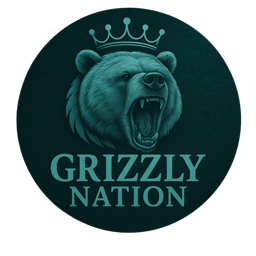
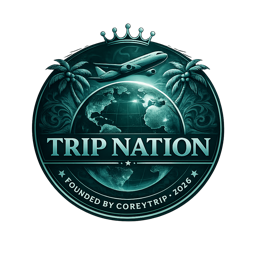
first commit

diff --git a/index.html b/index.html
@@ -3,7 +3,7 @@
 <head>
   <meta charset="UTF-8">
   <meta name="viewport" content="width=device-width, initial-scale=1">
-  <title>Grizzley Nation</title>
+  <title>Trip Nation</title>
   <link rel="stylesheet" href="css/style.css">
   <link href="https://fonts.googleapis.com/css2?family=Roboto:wght@400;700&display=swap" rel="stylesheet">
 </head>
@@ -17,7 +17,7 @@
 <!-- Header -->
 <header>
   <div class="header-container">
-    <img src="images/gns.png" alt="Grizzley Nation Logo" class="logo">
+    <img src="images/gns.png" alt="Trip Nation Logo" class="logo">
     <nav>
       <a href="index.html">Home</a>
       <a href="store.html">Store</a>
@@ -29,9 +29,9 @@
 
 <!-- Hero Section -->
 <section class="hero">
-  <img src="images/banner.png" alt="Grizzley Banner" class="hero-image">
+  <img src="images/banner.png" alt="Trip Banner" class="hero-image">
   <div class="hero-overlay">
-    <h1>Grizzley Nation</h1>
+    <h1>Trip Nation</h1>
     <p>Welcome to our official community. Join, explore, and be part of the experience!</p>
     <a href="support.html" class="btn">Join Discord</a>
   </div>
@@ -40,8 +40,8 @@
 <!-- Welcome Section -->
 <section class="welcome-section">
   <div class="container">
-    <h2>Welcome to Grizzley Nation</h2>
-    <p>Grizzley Nation is a community built on collaboration, fun, and growth. Explore our server, check out our events, and meet our amazing team!</p>
+    <h2>Welcome to Trip Nation</h2>
+    <p>Trip Nation is a community built on collaboration, fun, and growth. Explore our server, check out our events, and meet our amazing team!</p>
   </div>
 </section>
 
@@ -51,8 +51,8 @@
     <h2>🎉 Welcome Our New Server!</h2>
     <h3>Miami City Roleplay – VC Only</h3>
     <p>
-      Grizzley Nation is proud to officially welcome <strong>Miami City Roleplay (VC Only)</strong> 
-      into the Grizzley Nation family! Join an immersive voice-only roleplay experience 
+      Trip Nation is proud to officially welcome <strong>Miami City Roleplay (VC Only)</strong> 
+      into the Trip Nation family! Join an immersive voice-only roleplay experience 
       built for serious RP, fun scenarios, and a strong community.
     </p>
 
@@ -88,18 +88,18 @@
   <div class="team-middle three-members">
     <div class="member">
       <img src="images/gns.png" alt="Founder">
-      <h3>CoreyGrizzley</h3>
-      <p>Founder of Grizzley Nation</p>
+      <h3>CoreyTrip</h3>
+      <p>Founder of Trip Nation</p>
     </div>
     <div class="member">
       <img src="images/gns.png" alt="Co Founder">
-      <h3>KjGrizzley</h3>
-      <p>Co-Founder of Grizzley Nation</p>
+      <h3>KjTrip</h3>
+      <p>Co-Founder of Trip Nation</p>
     </div>
     <div class="member">
       <img src="images/gns.png" alt="Assistant Co Founder">
-      <h3>AnthonyGrizzley</h3>
-      <p>Assistant Co-Founder of Grizzley Nation</p>
+      <h3>AnthonyTrip</h3>
+      <p>Assistant Co-Founder of Trip Nation</p>
     </div>
   </div>
 </section>
@@ -110,45 +110,35 @@
   <div class="team-middle">
     <div class="member">
       <img src="images/gns.png" alt="Founder of MCRP">
-      <h3>KjGrizzley</h3>
-      <p>Co-Founder & Overseer</p>
+      <h3>KjTrip</h3>
+      <p>Overseer & Founder of MCRP</p>
     </div>
   </div>
 </section>
 
 <!-- Official Members -->
 <section class="team-section vertical-center">
-  <h2>Official Grizzley Members</h2>
+  <h2>Official Trip Members</h2>
   <div class="team-grid">
     <div class="member">
       <img src="images/gns.png" alt="Member 1">
-      <h3>AndrewGrizzley</h3>
-      <p>Junior Grizzley</p>
+      <h3>AndrewTrip</h3>
+      <p>Trial Senior Trip</p>
     </div>
     <div class="member">
       <img src="images/gns.png" alt="Member 2">
-      <h3>ZayGrizzley</h3>
-      <p>Junior Grizzley</p>
-    </div>
-    <div class="member">
-      <img src="images/gns.png" alt="Member 3">
-      <h3>CozyGrizzley</h3>
-      <p>Trial Grizzley</p>
+      <h3>ZayTrip</h3>
+      <p>Trial Senior Trip</p>
     </div>
     <div class="member">
       <img src="images/gns.png" alt="Member 4">
-      <h3>RageGrizzley</h3>
-      <p>Trial Grizzley</p>
-    </div>
-    <div class="member">
-      <img src="images/gns.png" alt="Member 5">
-      <h3>JamesGrizzley</h3>
-      <p>Trial Grizzley</p>
+      <h3>RageTrip</h3>
+      <p>Junior Trip</p>
     </div>
     <div class="member">
       <img src="images/gns.png" alt="Member 6">
-      <h3>JoeyGrizzley</h3>
-      <p>Trial Grizzley</p>
+      <h3>VivianTrip</h3>
+      <p>Trial Trip</p>
     </div>
   </div>
 </section>
@@ -156,7 +146,7 @@
 <!-- Footer -->
 <footer>
   <div class="container footer-grid">
-    <p>&copy; 2026 Grizzley Nation. All rights reserved.</p>
+    <p>&copy; 2026 Trip Nation. All rights reserved.</p>
     <div class="social-links">
       <a href="https://discord.gg/uvwZyjweBS">Discord</a>
     </div>

diff --git a/gnrules.html b/gnrules.html
@@ -3,19 +3,19 @@
 <head>
   <meta charset="UTF-8">
   <meta name="viewport" content="width=device-width, initial-scale=1">
-  <title>Grizzley Nation Rules</title>
+  <title>Trip Nation Rules</title>
   <link rel="stylesheet" href="css/style.css">
   <link href="https://fonts.googleapis.com/css2?family=Roboto:wght@400;700&display=swap" rel="stylesheet">
 </head>
 <body>
 
   <div class="announcement">
-    📢 Read all rules carefully to stay part of Grizzley Nation.
+    📢 Read all rules carefully to stay part of Trip Nation.
   </div>
 
   <header>
     <div class="header-container">
-      <img src="images/gns.png" alt="Grizzley Nation Logo" class="logo">
+      <img src="images/gns.png" alt="Trip Nation Logo" class="logo">
       <nav>
         <a href="index.html">Home</a>
         <a href="store.html">Store</a>
@@ -27,10 +27,10 @@
 
   <section class="hero hero-small">
     <div class="hero-overlay">
-      <h1>Grizzley Nation Rules</h1>
+      <h1>Trip Nation Rules</h1>
       <p>Follow these rules to ensure a safe and fun community for everyone.</p>
     </div>
-    <img src="images/banner.png" alt="Grizzley Banner" class="hero-image">
+    <img src="images/banner.png" alt="Trip Banner" class="hero-image">
   </section>
 
   <section class="rules">
@@ -71,7 +71,7 @@
 
   <footer>
     <div class="container footer-grid">
-      <p>&copy; 2026 Grizzley Nation. All rights reserved.</p>
+      <p>&copy; 2026 Trip Nation. All rights reserved.</p>
       <div class="social-links">
         <a href="https://discord.gg/uvwZyjweBS">Discord</a>
       </div>

diff --git a/about.html b/about.html
@@ -3,12 +3,12 @@
 <head>
   <meta charset="UTF-8">
   <meta name="viewport" content="width=device-width, initial-scale=1.0">
-  <title>About - Grizzley Nation</title>
+  <title>About - Trip Nation</title>
   <link rel="stylesheet" href="css/style.css">
 </head>
 <body>
   <header>
-    <img src="images/gns.png" alt="Grizzley Nation Logo" class="logo">
+    <img src="images/gns.png" alt="Trip Nation Logo" class="logo">
     <nav>
       <a href="index.html">Home</a>
       <a href="about.html">About</a>
@@ -20,13 +20,13 @@
 
   <main>
     <section class="about">
-      <h1>About Grizzley Nation</h1>
-      <p>Grizzley Nation is a community focused on teamwork, growth, and dominance. We welcome new members who share our values and want to be part of the pack.</p>
+      <h1>About Trip Nation</h1>
+      <p>Trip Nation is a community focused on teamwork, growth, and dominance. We welcome new members who share our values and want to be part of the pack.</p>
     </section>
   </main>
 
   <footer>
-    <p>&copy; 2026 Grizzley Nation. All rights reserved.</p>
+    <p>&copy; 2026 Trip Nation. All rights reserved.</p>
   </footer>
 </body>
 </html>

diff --git a/store.html b/store.html
@@ -3,13 +3,13 @@
 <head>
   <meta charset="UTF-8">
   <meta name="viewport" content="width=device-width, initial-scale=1">
-  <title>Grizzley Nation Store</title>
+  <title>Trip Nation Store</title>
   <link rel="stylesheet" href="css/style.css">
 </head>
 <body>
   <header>
     <div class="header-container">
-      <img src="images/gns.png" class="logo" alt="Grizzley Nation Logo">
+      <img src="images/gns.png" class="logo" alt="Trip Nation Logo">
       <nav>
         <a href="index.html">Home</a>
         <a href="store.html">Store</a>
